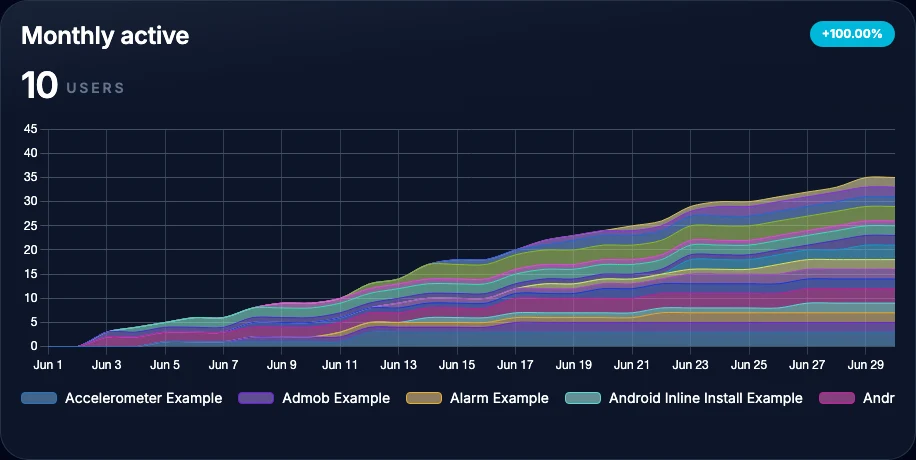
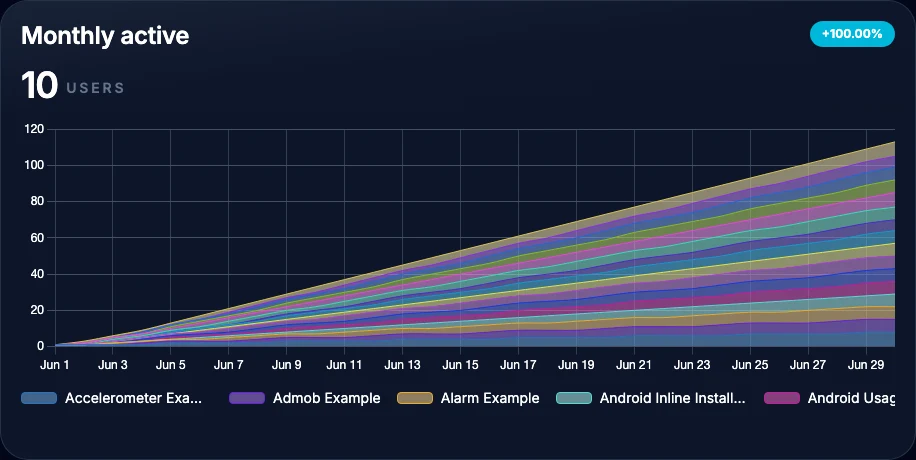
fix(dashboard): address chart legend review

diff --git a/src/components/dashboard/LineChartStats.vue b/src/components/dashboard/LineChartStats.vue
@@ -307,6 +307,7 @@ const chartData = computed<ChartData<'line' | 'bar'>>(() => {
 
         const baseDataset = {
           label: props.appNames[appId] || appId,
+          appId,
           data: processedData,
           borderColor,
           backgroundColor,
@@ -391,12 +392,16 @@ const legendItems = computed(() => {
   if (!hasAppData.value)
     return []
 
-  return chartData.value.datasets.map((dataset, index) => ({
-    id: `${dataset.label ?? index}`,
-    label: `${dataset.label ?? ''}`,
-    backgroundColor: getLegendColor(dataset.backgroundColor),
-    borderColor: getLegendColor(dataset.borderColor),
-  }))
+  return chartData.value.datasets.map((dataset, index) => {
+    const appDataset = dataset as typeof dataset & { appId?: string }
+
+    return {
+      id: `${appDataset.appId ?? index}`,
+      label: `${dataset.label ?? ''}`,
+      backgroundColor: getLegendColor(dataset.backgroundColor),
+      borderColor: getLegendColor(dataset.borderColor),
+    }
+  })
 })
 
 const todayLineOptions = computed(() => {
@@ -472,7 +477,7 @@ const chartOptions = computed<ChartOptions & { plugins: { inlineAnnotationPlugin
     scales,
     plugins: {
       inlineAnnotationPlugin: generateAnnotations.value,
-      legend: createLegendConfig(isDark.value, false),
+      legend: createLegendConfig(isDark.value, !hasAppData.value),
       title: {
         display: false,
       },
@@ -496,8 +501,12 @@ const barPlugins = sharedPlugins as unknown as Plugin<'bar'>[]
       <Line v-if="accumulated" :data="chartData as any" height="auto" :options="(chartOptions as any)" :plugins="linePlugins" />
       <Bar v-else :data="chartData as any" height="auto" :options="(chartOptions as any)" :plugins="barPlugins" />
     </div>
-    <ul v-if="legendItems.length" class="mt-3 flex max-w-full shrink-0 gap-4 overflow-x-auto overflow-y-hidden whitespace-nowrap pb-1 pr-1 [scrollbar-gutter:stable]">
-      <li v-for="item in legendItems" :key="item.id" class="flex shrink-0 items-center gap-2 text-sm text-slate-700 dark:text-white">
+    <ul
+      v-if="legendItems.length"
+      tabindex="0"
+      class="mt-3 flex max-w-full shrink-0 gap-4 overflow-x-auto overflow-y-hidden whitespace-nowrap pb-1 pr-1 [scrollbar-gutter:stable]"
+    >
+      <li v-for="item in legendItems" :key="item.id" class="flex max-w-[12rem] shrink-0 items-center gap-2 text-sm text-slate-700 dark:text-white">
         <span
           class="h-3 w-9 shrink-0 rounded-sm border"
           :style="{ backgroundColor: item.backgroundColor, borderColor: item.borderColor }"